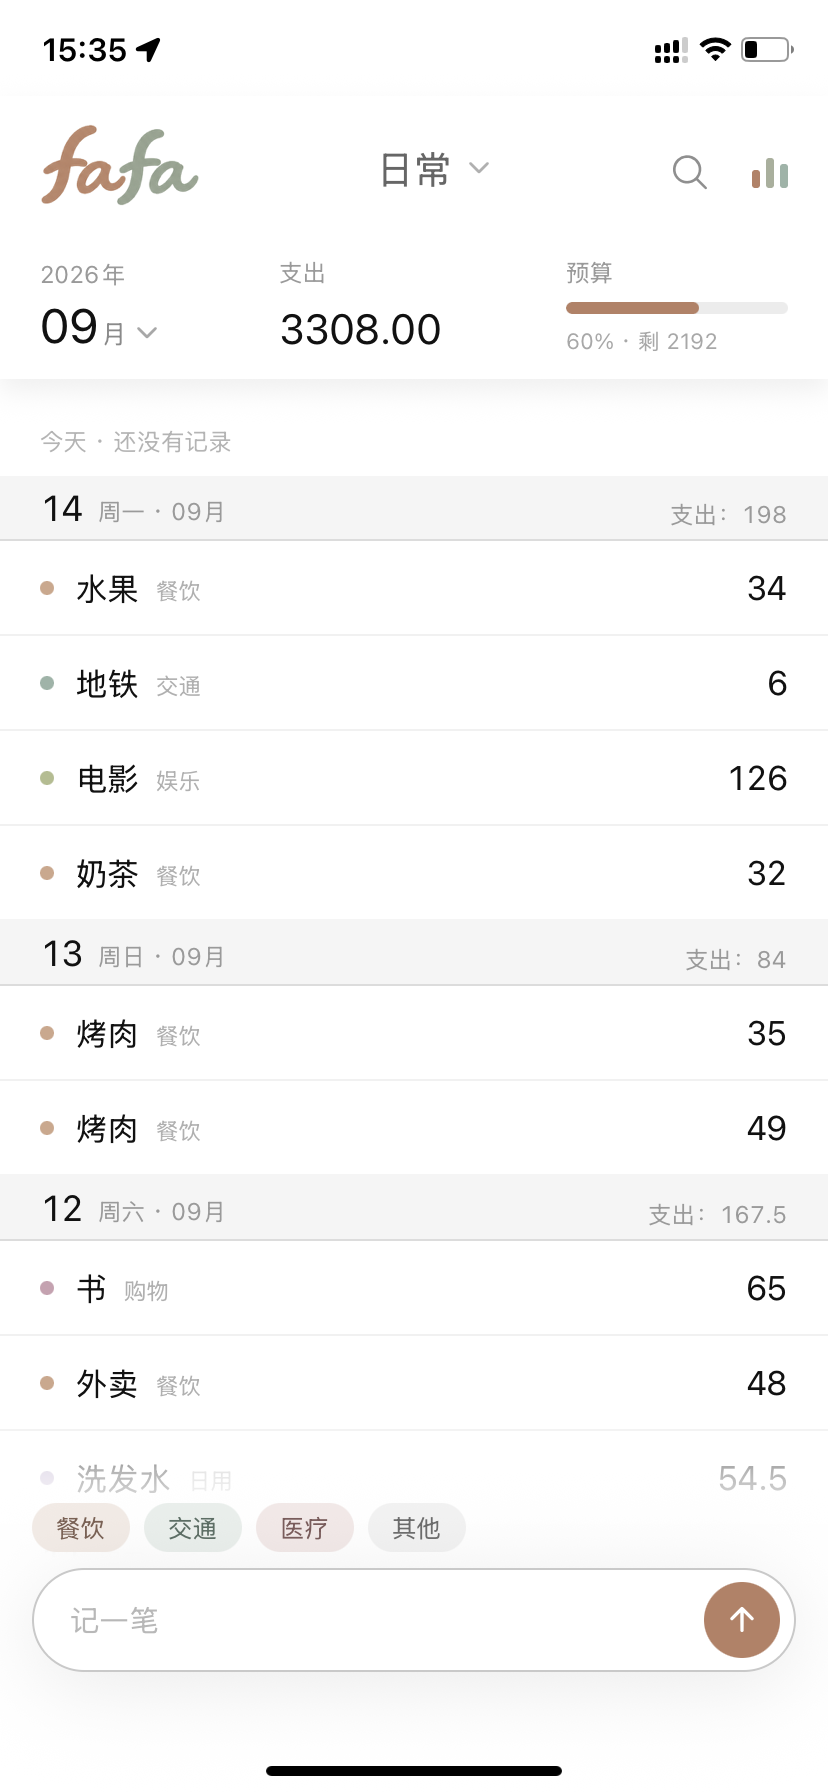
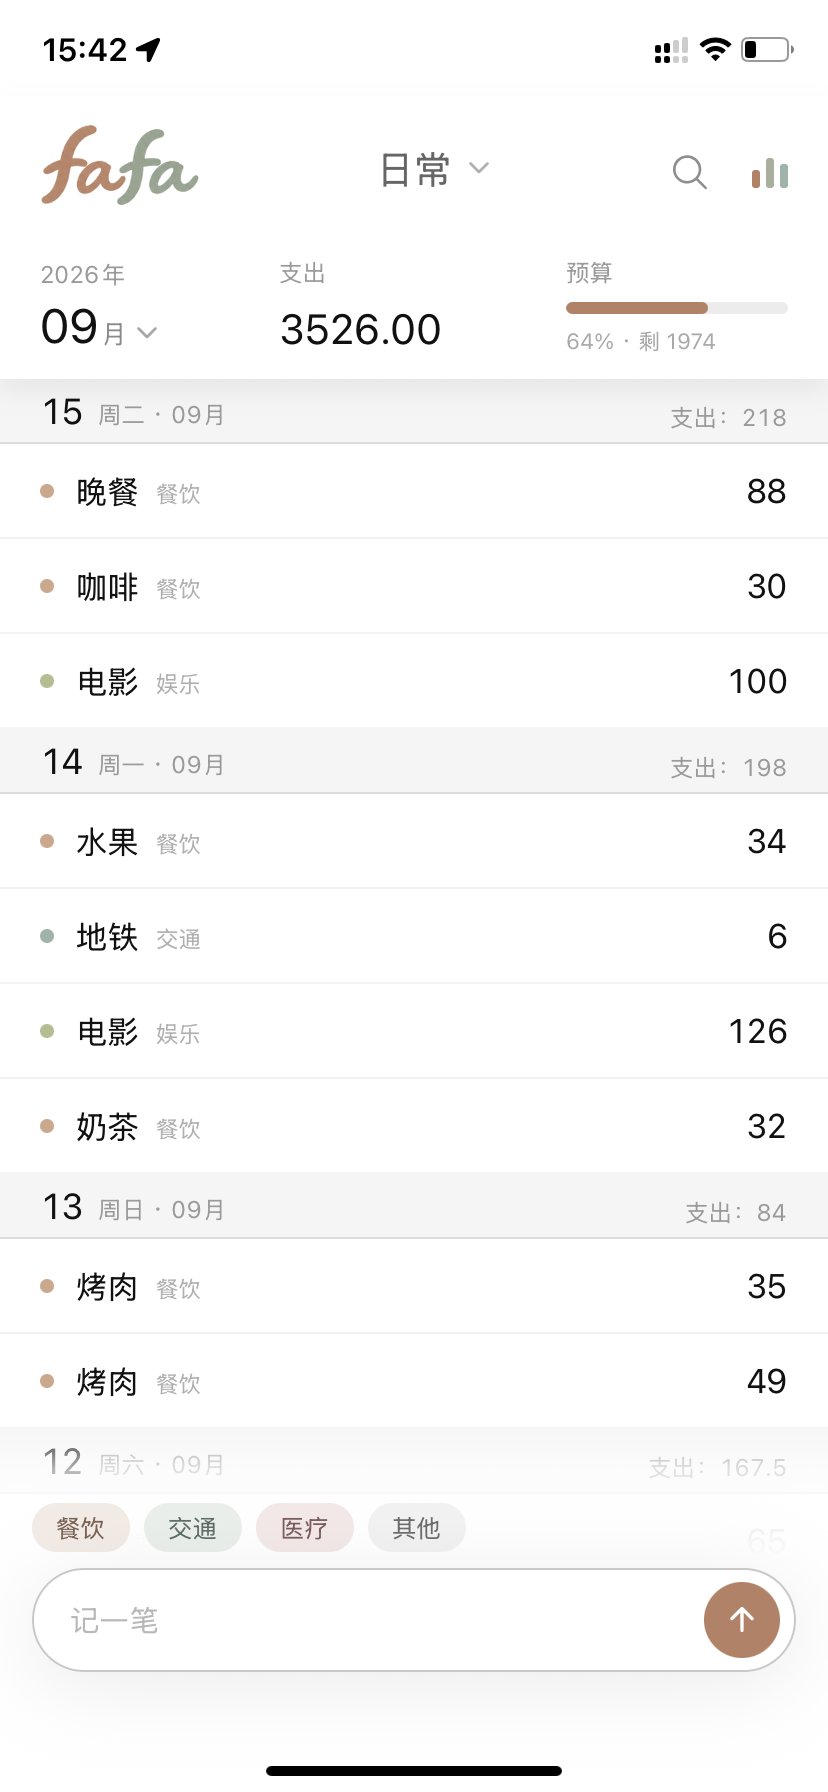
落地页：标语前那道短横线从 1.5px 收到 1px

diff --git a/index.html b/index.html
@@ -74,7 +74,7 @@
     margin: 0; color: var(--brand); font-size: 14px; letter-spacing: 1px;
   }
   .eyebrow::before {
-    content: ""; width: 22px; height: 1.5px; background: var(--brand); flex: none;
+    content: ""; width: 22px; height: 1px; background: var(--brand); flex: none;
   }
 
   h1 {
